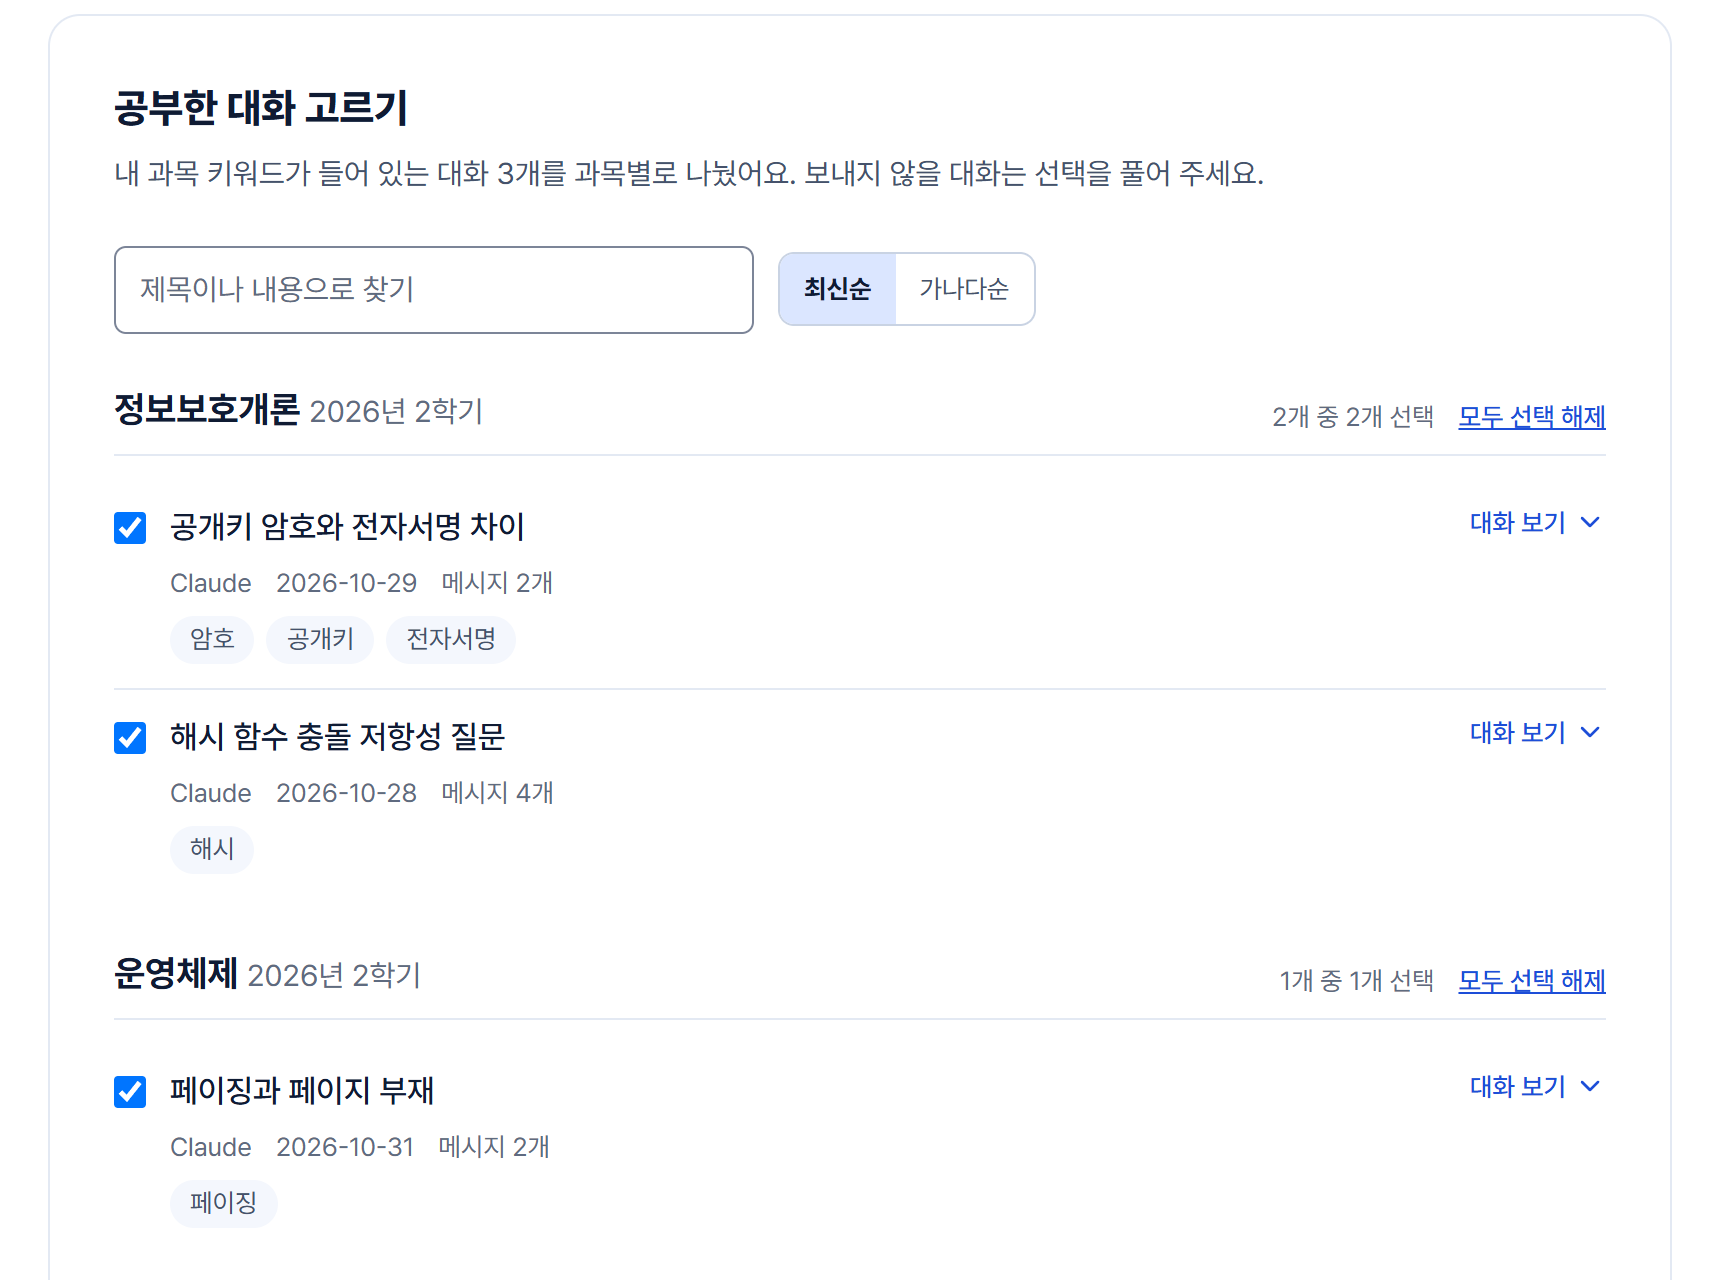
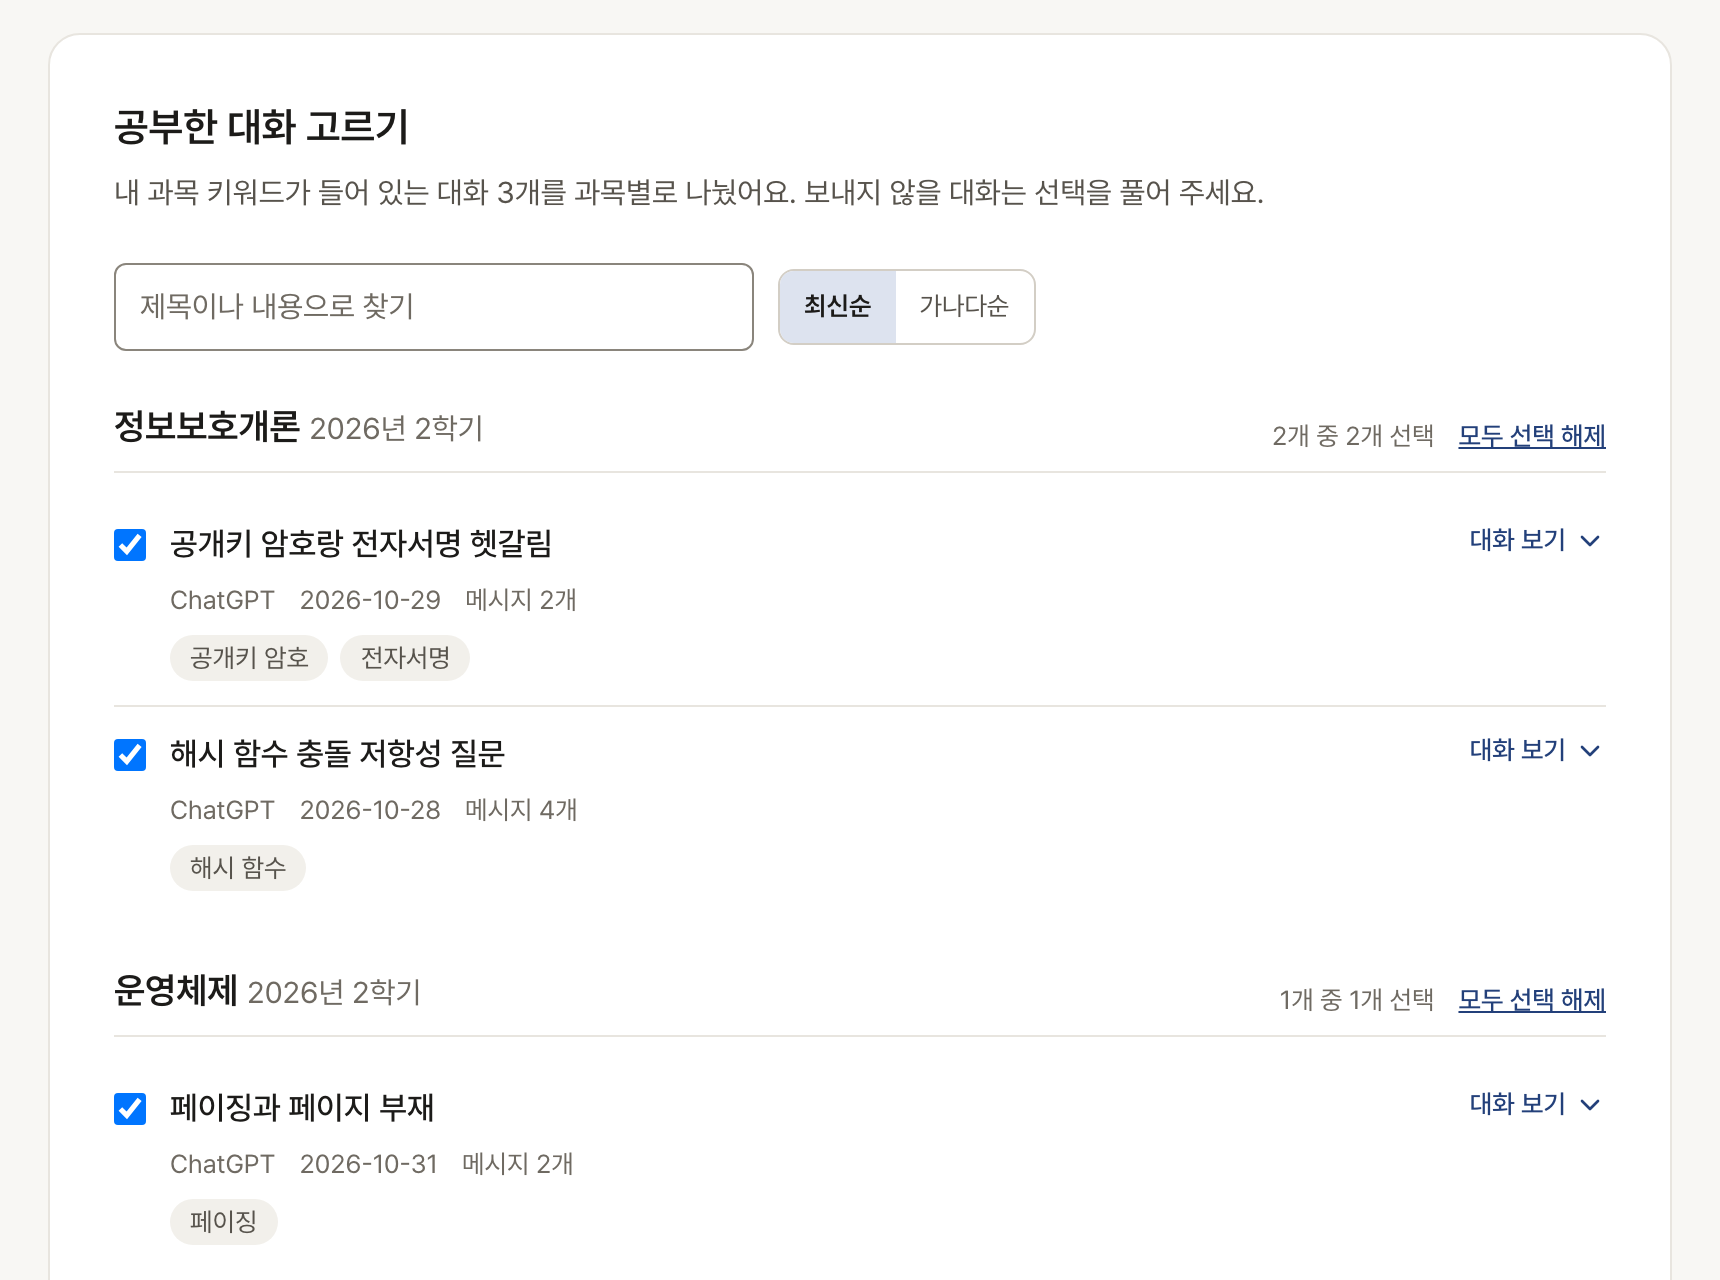
docs: README 화면 캡처 5장을 새 디자인으로 다시 찍고 남은 옛 문구 고치기
- docs/images의 대시보드·개념 펼치기·대화 고르기·가린 내용 확인·퀴즈 결과 캡처를 새 디자인(중립 회색·잉크 파랑·3칸 표식·보라 선)으로 교체
  (체험 모드, 2배 해상도, 대화 가져오기는 실제 기록이 아닌 가짜 대화 파일로)
- README 캡처 대체 글과 설명을 새 화면에 맞춤 (판단 칩 → 칸 세 개 표식, 판단 검증, AI 해설·자료 근거)
- 대시보드 개념 목록 설명의 "칩은 모델마다의 판단" → "오른쪽 세 칸은 모델마다의 판단"
- 퀴즈 결과 카드의 "Q1. [객관식]"을 퀴즈 풀기와 같은 모양(문제 위 작은 글자 + "1.")으로

diff --git a/frontend/src/pages/analysis/components/ConceptList.tsx b/frontend/src/pages/analysis/components/ConceptList.tsx
@@ -191,7 +191,7 @@ function ConceptList({
   return (
     <Panel
       title="공부할 순서대로 본 개념"
-      description="순서는 정해진 규칙으로 정해요: 더 공부하겠다고 고른 개념, 이해 부족, 부분 이해, 의견이 갈린 개념, 근거 부족, 이해 순이에요. 칩은 모델마다의 판단이고, 숙련도는 퀴즈와 대화 판단을 규칙으로 계산한 단계예요. 줄을 누르면 근거가 펼쳐져요."
+      description="순서는 정해진 규칙으로 정해요: 더 공부하겠다고 고른 개념, 이해 부족, 부분 이해, 의견이 갈린 개념, 근거 부족, 이해 순이에요. 오른쪽 세 칸은 모델마다의 판단이고, 숙련도는 퀴즈와 대화 판단을 규칙으로 계산한 단계예요. 줄을 누르면 근거가 펼쳐져요."
       layoutReason={layoutReason}
     >
       {concepts.length === 0 ? (

diff --git a/frontend/src/pages/quizzes/components/QuestionResultCard.tsx b/frontend/src/pages/quizzes/components/QuestionResultCard.tsx
@@ -101,10 +101,11 @@ function QuestionResultCard({
     <Card as="li" className="flex flex-col gap-3 p-5">
       <div className="flex items-start justify-between gap-3">
         <p className="font-semibold text-heading">
-          <span className="mr-2 text-primary">Q{index + 1}.</span>
-          <span className="mr-2 text-caption font-medium text-ink-muted">
-            [{QUESTION_TYPE_LABELS[item.type]}]
+          {/* 문제 형식은 퀴즈 풀기 화면처럼 대괄호 없이 문제 위 작은 글자로 */}
+          <span className="mb-1 block text-caption font-medium text-ink-muted">
+            {QUESTION_TYPE_LABELS[item.type]}
           </span>
+          <span className="mr-1.5 text-ink-muted">{index + 1}.</span>
           {question.text}
         </p>
         <span

diff --git a/README.md b/README.md
@@ -92,16 +92,16 @@ flowchart LR
 
 ## 주요 화면
 
-<img src="docs/images/screen-dashboard.png" alt="학습 대시보드의 공부할 순서대로 본 개념 목록: 개념마다 순서, 규칙으로 계산한 숙련도 단계(보완 필요, 보통, 강점, 근거 부족), GPT·Claude·Gemini 각각의 판단 칩, 몇 개 모델이 같은 판단을 했는지" width="100%"><br>
+<img src="docs/images/screen-dashboard.png" alt="학습 대시보드의 공부할 순서대로 본 개념 목록: 개념마다 순서, 규칙으로 계산한 숙련도 단계(보완 필요, 보통, 강점, 근거 부족), GPT·Claude·Gemini 판단을 같은 크기 칸 세 개에 아이콘으로 나란히 보여 주는 표식, 몇 개 모델이 같은 판단을 했는지" width="100%"><br>
 <b>학습 대시보드: 공부할 순서대로 본 개념</b><br>
-더 공부하겠다고 고른 개념, 이해 부족, 의견이 갈린 개념, 근거 부족 순으로 줄을 세우고, 줄마다 규칙으로 계산한 숙련도와 세 모델의 판단을 나란히 보여 줍니다.
+더 공부하겠다고 고른 개념, 이해 부족, 의견이 갈린 개념, 근거 부족 순으로 줄을 세우고, 줄마다 규칙으로 계산한 숙련도와 세 모델의 판단(칸 세 개)을 나란히 보여 줍니다. 세 칸 모양이 같으면 의견이 같고, 다르면 갈린 것입니다.
 
 <table>
   <tr>
     <td width="50%" valign="top">
-      <img src="docs/images/screen-concept-detail.png" alt="개념 한 줄을 펼친 모습: 숙련도 보완 필요와 바로 앞 기록 대비 변화, 반영한 근거(퀴즈 채점 문제 수와 얻은 점수, AI 대화 수와 모델 판단)" width="100%"><br>
+      <img src="docs/images/screen-concept-detail.png" alt="개념 한 줄을 펼친 모습: 세 모델 판단 표식, 판단 검증(모델 의견과 확인 퀴즈 결과가 같은 방향인지), 숙련도 보완 필요와 바로 앞 기록 대비 변화" width="100%"><br>
       <b>개념 펼치기: 숙련도 근거</b><br>
-      숫자 점수 대신 단계와 그 근거(반영한 퀴즈·대화), 이전 기록 대비 변화를 보여 줍니다.
+      숫자 점수 대신 단계와 그 근거, 이전 기록 대비 변화를 보여 주고, 모델 의견이 실제 퀴즈 결과와 같은 방향일 때만 '검증 완료'로 표시합니다.
     </td>
     <td width="50%" valign="top">
       <img src="docs/images/screen-import-select.png" alt="공부한 대화 고르기: 내 과목 키워드로 대화를 과목별로 나눈 목록" width="100%"><br>
@@ -116,9 +116,9 @@ flowchart LR
       이메일, 전화번호를 가린 모습을 보내기 전에 직접 확인합니다.
     </td>
     <td width="50%" valign="top">
-      <img src="docs/images/screen-quiz-result.png" alt="퀴즈 결과: 맞힌 문제 수와 문제별 정답, 관련 개념, AI 해설" width="100%"><br>
+      <img src="docs/images/screen-quiz-result.png" alt="퀴즈 문제별 결과: 내 답과 채점 방식, 관련 개념, 왼쪽 보라 선으로 구분한 AI 해설과 출제 목표, 자료 원문 근거" width="100%"><br>
       <b>퀴즈 결과</b><br>
-      서버가 채점하고, 문제마다 관련 개념과 해설을 붙입니다. 결과는 숙련도 계산에 다시 들어갑니다.
+      서버가 채점하고, 문제마다 관련 개념, AI 해설, 자료 원문 근거를 붙입니다. 결과는 숙련도 계산에 다시 들어갑니다.
     </td>
   </tr>
 </table>
